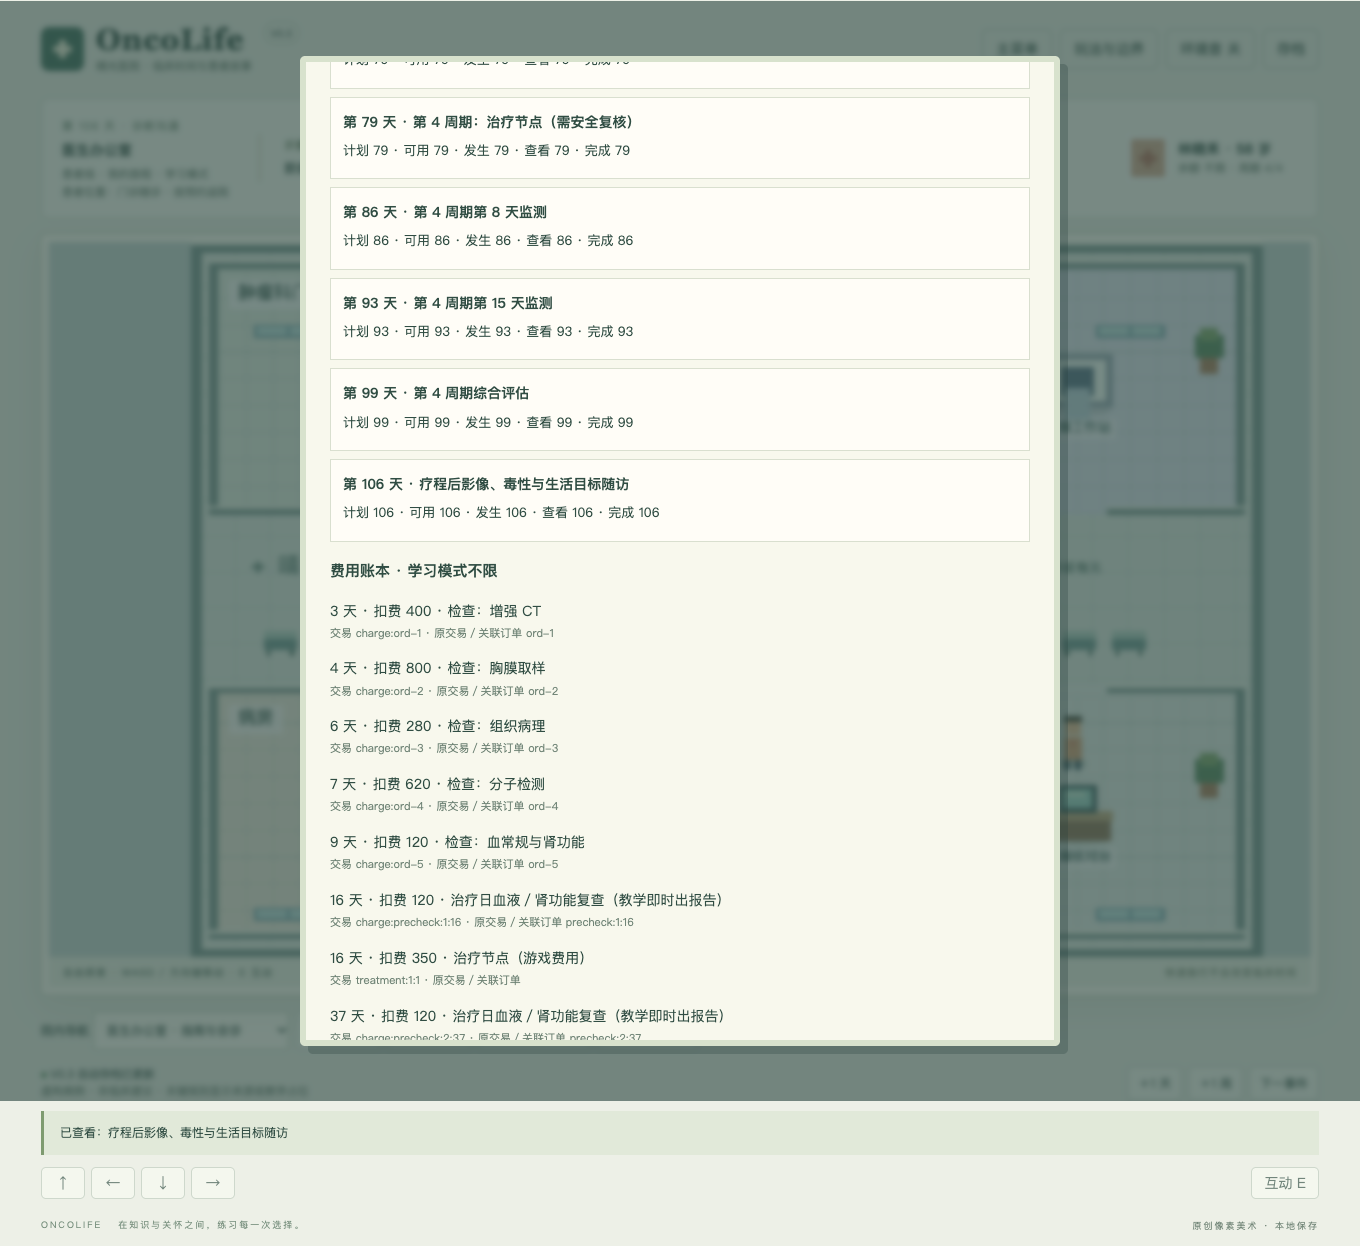
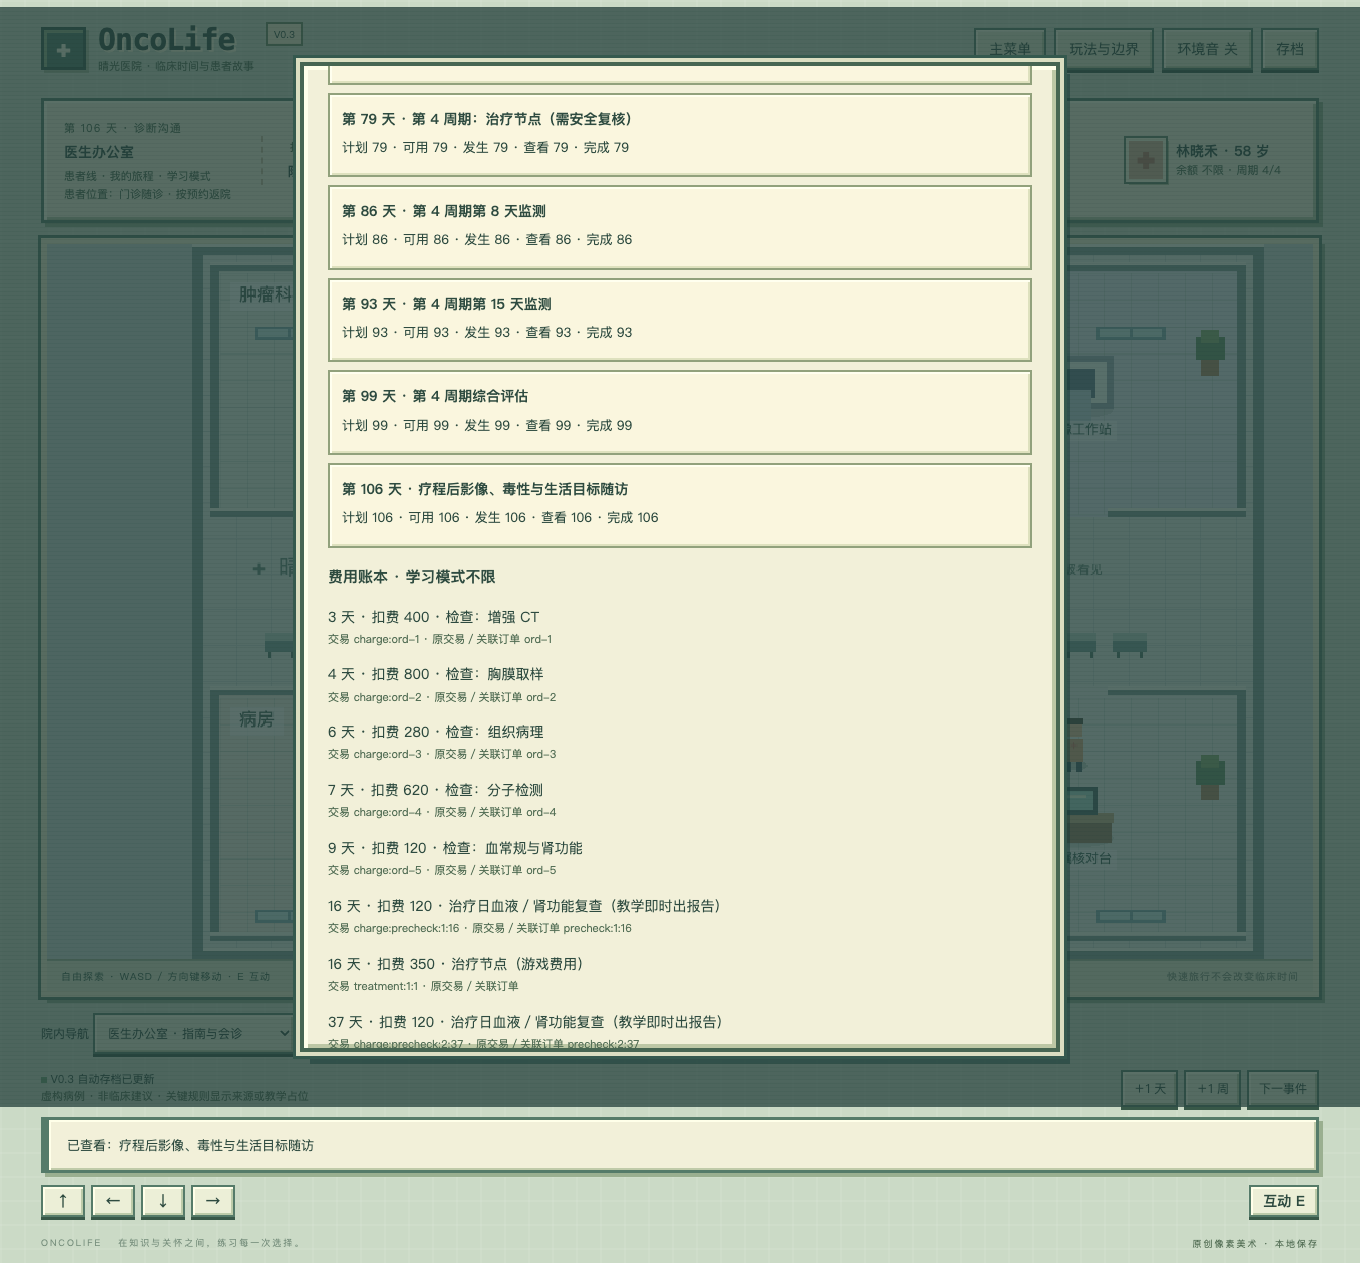
style: unify menus and clinical panels with pixel hospital art

diff --git a/src/ui/style.css b/src/ui/style.css
@@ -4,3 +4,36 @@
 .casegrid{display:grid;grid-template-columns:1fr 1fr;gap:10px;margin:14px 0}.casegrid button{text-align:left}.panelnav{display:flex;flex-wrap:wrap;gap:5px;margin:12px 0}.cyclebar{padding:14px;background:#dce8d4;margin:14px 0}.cyclebar progress{width:100%;accent-color:#557c65}button:disabled{opacity:.45;cursor:not-allowed}@media(max-width:760px){.casegrid{grid-template-columns:1fr}}
 .patient-sheet{background:#f1f3e8;border:1px solid #d0dbc9;padding:14px 16px;margin:12px 0}.patient-sheet h3{margin-top:0}.patient-sheet p{margin:6px 0}.data-grid{display:grid;grid-template-columns:1fr 1fr;gap:8px}.data-grid p{background:#fffdf7;border-left:2px solid #9ab69a;padding:7px;font-size:12px}.known-clues{border-top:1px solid #d4dfd0;padding-top:8px}@media(max-width:760px){.data-grid{grid-template-columns:1fr}}
 .report-text{white-space:pre-line}.patient-sheet small{line-height:1.6}.patient-sheet details article{margin-top:8px;padding:8px}
+
+/* Pixel UI: hard-edged frames and inset tiles share the hospital palette. */
+:root{--ink:#35594e;--edge:#557b69;--light:#ffffe9;--paper:#f2f0d9;--shade:#b4c6a6;background:#cbdac6;color:#2e4b40}
+body{background-image:linear-gradient(90deg,#ffffff12 2px,transparent 2px),linear-gradient(#ffffff12 2px,transparent 2px);background-size:24px 24px}
+button,select,textarea{border-radius:0;border:2px solid var(--edge);background:#ecefd7;box-shadow:inset 2px 2px 0 var(--light),inset -2px -2px 0 #bccba9,0 3px 0 #385848;transition:none}
+button:hover{background:#d8e8bd;border-color:#35594e;box-shadow:inset 2px 2px 0 #ffffe9,inset -2px -2px 0 #a9bd8d,0 3px 0 #385848}
+button:active:not(:disabled){transform:translateY(2px);box-shadow:inset 2px 2px 0 #a9bd8d,inset -2px -2px 0 #ffffe9,0 1px 0 #385848}
+button:focus-visible,select:focus-visible,textarea:focus-visible{outline:3px dashed #b8753d;outline-offset:4px}
+small,.brand small{color:#536e55}.eyebrow{color:#536e55}.brand b{font-family:monospace;font-weight:900;letter-spacing:-1px;text-shadow:2px 2px 0 #f8f5d8}
+.logo{border-radius:0;border:3px solid #35594e;box-shadow:inset 3px 3px 0 #8eae87,3px 3px 0 #a7b99d;font-family:monospace}.version{border-radius:0;border:2px solid #6d8965;background:#f5edcc}
+.toplinks button{background:#e3e9cc}.status{border-radius:0;border:3px solid var(--edge);background:var(--paper);box-shadow:inset 3px 3px 0 var(--light),inset -3px -3px 0 var(--shade),4px 4px 0 #90a98b}
+.mission{border-left:2px dashed #a4b58f}.identity .avatar{border-color:#f9f7dc;outline:2px solid #5f8067;box-shadow:3px 3px 0 #acbd9a}
+.gamewrap{border-radius:0;border:6px solid #f2efcf;outline:3px solid #557b69;box-shadow:6px 6px 0 #8ba78b}
+.mapnote{background:#e5e9ce;border-top:2px solid #a7b99d;color:#3d604d}.dot{border-radius:0}
+.toast,.feedback{position:relative;border:3px solid var(--edge);border-left-width:8px;background:#f2f0d9;box-shadow:inset 2px 2px 0 var(--light),inset -2px -2px 0 #c0cba9,4px 4px 0 #9aaf90;padding:14px 18px;font-size:13px}
+.toast.alert{background:#f2e0bf;border-color:#946845}.warning{border:2px solid #a57850;background:#f1dfbd;box-shadow:inset 2px 2px 0 #fff0cf}.success{border:2px solid #64845b;box-shadow:inset 3px 3px 0 #f5ffdb}
+.overlay{backdrop-filter:none;background:#203d38bd;background-image:repeating-linear-gradient(0deg,transparent 0 3px,#132c2510 3px 4px)}
+.modal{border-radius:0;border:4px solid #476652;background:var(--paper);box-shadow:inset 4px 4px 0 #ffffe9,inset -4px -4px 0 #bdc7a5,0 0 0 4px #dbdec1,0 0 0 7px #35594e,10px 12px 0 #173b3580;scrollbar-color:#678965 #dedfc2;scrollbar-width:thin}
+.modalhead{border-bottom:3px double #839771;padding-bottom:14px}.modalhead h2{font-weight:800;letter-spacing:1px;text-shadow:1px 1px 0 #fffde6}
+.report,.testcard,.patient-sheet{border-radius:0;border:2px solid #91a17c;background:#faf6de;box-shadow:inset 2px 2px 0 #ffffef,inset -2px -2px 0 #dee1be}
+.testcard h4,.patient-sheet h3{border-bottom:2px dashed #b6be98;padding-bottom:8px;color:#365a48}.data-grid p{border-left:4px solid #90a77e;background:#eeeccd}
+.hypothesis,.cyclebar,.wellbeing{border:2px solid #94a37e;box-shadow:inset 2px 2px 0 #f8f9d9;background:#dfe6c7}
+.cyclebar progress{height:14px;border:2px solid #4c7159;border-radius:0;background:#c2ceac}.cyclebar progress::-webkit-progress-bar{background:#c2ceac}.cyclebar progress::-webkit-progress-value{background:repeating-linear-gradient(90deg,#5a8963 0 10px,#78a571 10px 12px)}
+.panelnav{gap:8px;padding-bottom:5px}details{border-bottom:2px dashed #b5bf99}summary::marker{color:#61805b}textarea{background:#fffbe6;line-height:1.7}.textbutton{border:0;box-shadow:none;background:none;color:#4b684a;padding:2px}.textbutton:hover{box-shadow:none;background:#dce6c4}.touch{opacity:1}.touch button{font-weight:800}
+.journey-menu .modal{width:900px;padding:28px;background-color:#e9edcf;background-image:linear-gradient(90deg,#92ac7d10 2px,transparent 2px),linear-gradient(#92ac7d10 2px,transparent 2px);background-size:24px 24px}
+.journey-menu .modal>small:first-child{display:inline-block;background:#416c58;color:#fff5cf;border:2px solid #2e5142;padding:4px 14px;box-shadow:3px 3px 0 #a1b58b;font-family:monospace;font-size:14px;letter-spacing:3px}
+.journey-menu h1{font-family:"PingFang SC","Microsoft YaHei",sans-serif;font-size:32px;line-height:1.5;font-weight:900;letter-spacing:3px;text-shadow:2px 2px 0 #fffce1;margin:18px 0 10px}
+.journey-choices{gap:18px;margin:22px 0}.journey-choices button{position:relative;border:3px solid #4f755b;padding:18px;background:#d9e7bd;box-shadow:inset 4px 4px 0 #f5ffe0,inset -4px -4px 0 #a3b68b,4px 5px 0 #6e8c6b}
+.journey-choices button:last-child{background:#eddbb4;border-color:#94744e;box-shadow:inset 4px 4px 0 #fff1cb,inset -4px -4px 0 #c4a97b,4px 5px 0 #8e7b55}
+.journey-choices button:hover{background:#c9dda6}.journey-choices button:last-child:hover{background:#e6cc96}.journey-choices span{display:inline-flex;align-items:center;justify-content:center;width:48px;height:48px;background:#f6f7dc;border:3px solid #60805d;box-shadow:4px 4px 0 #adbf91;font-size:28px;line-height:1}.journey-choices button:last-child span{border-color:#a38358;background:#fff0cb;box-shadow:4px 4px 0 #c8ae80}
+.journey-choices b{display:block;border-top:2px dashed #98ad81;padding-top:10px}.journey-choices h2{font-size:22px}.journey-choices p{margin:8px 0 12px}.casegrid{gap:12px}.casegrid button{background:#f4efce;padding:12px}.casegrid small{margin-top:4px}.journey-menu h3{border-bottom:3px double #94a37a;padding-bottom:8px}
+@media(max-width:760px){main{padding:12px}.brand b{font-size:22px}.overlay{padding:13px}.modal{max-height:92dvh;padding:14px}.journey-menu .modal{padding:16px}.journey-menu h1{font-size:24px;letter-spacing:1px}.journey-choices{grid-template-columns:1fr;gap:14px}.journey-choices button{padding:14px}.journey-choices p{font-size:13px}.journey-choices span{float:right;width:40px;height:40px}.journey-choices h2{margin-top:0}.status{padding:12px;gap:12px}.mission{border-left:0;border-top:2px dashed #a4b58f}.gamewrap{border-width:4px;box-shadow:4px 4px 0 #8ba78b}.travel label{width:100%}.travel select{max-width:100%}.mapnote{letter-spacing:0}.toast{padding:12px;font-size:12px}footer{letter-spacing:1px}.toplinks button{min-height:32px}.casegrid{gap:10px}}
+@media(prefers-reduced-motion:reduce){button:active:not(:disabled){transform:none}}

diff --git a/docs/V03_DEVELOPMENT_LOG.md b/docs/V03_DEVELOPMENT_LOG.md
@@ -52,3 +52,10 @@
 - 「接诊下一位」不再按固定列表顺序，而是使用当前共享存档日期、已接诊数量和固定种子从未接诊病例中抽样；保存和刷新保持同一结果。
 - 修正测试辅助流程对“样本不足”重取样的处理，并增加病例池随机性与确定性测试。
 - 局限：随机池仍来自预写的 10 例，尚未生成无限随机患者；新增病例均为编写的虚构教学设定。
+
+## 2026-11-01：统一像素 UI
+
+- 开场选择、病例列表、对话提示、病历／检查弹窗、导航、按钮和进度条统一硬边框、分层描边、无模糊投影与地图配色；取消圆角和背景模糊。保留中文系统字体以便阅读医学数据。
+- 手机开场改为单列角色入口，键盘焦点和减少动态效果偏好保留。
+- 构建通过；实际浏览器检查 1360px 桌面及 390px 手机，无横向溢出。预览证据：pixel-menu-desktop.png、pixel-menu-mobile.png、pixel-record-desktop.png。
+- 本次只修改样式，病例数据、治疗规则与存档结构未调整。

diff --git a/docs/V03_TEST_RESULTS.md b/docs/V03_TEST_RESULTS.md
@@ -63,3 +63,9 @@
 - `npm test`：57 / 57 通过。
 - `npm run build`：通过。
 - `npm run test:e2e`：7 / 7 通过（31.9 秒），新增随机接诊流程验证未接诊抽样、后台报告和刷新恢复。
+
+## 像素界面回归（2026-11-01）
+
+- 生产构建通过，原有 Phaser 大包提示仍在。
+- 7 / 7 浏览器流程通过（30.6 秒），覆盖医生、患者、多周期、挑战、移动端、档案和随机接诊。
+- 人工查看新开场桌面／手机和病历弹窗截图；390px 无横向溢出。
